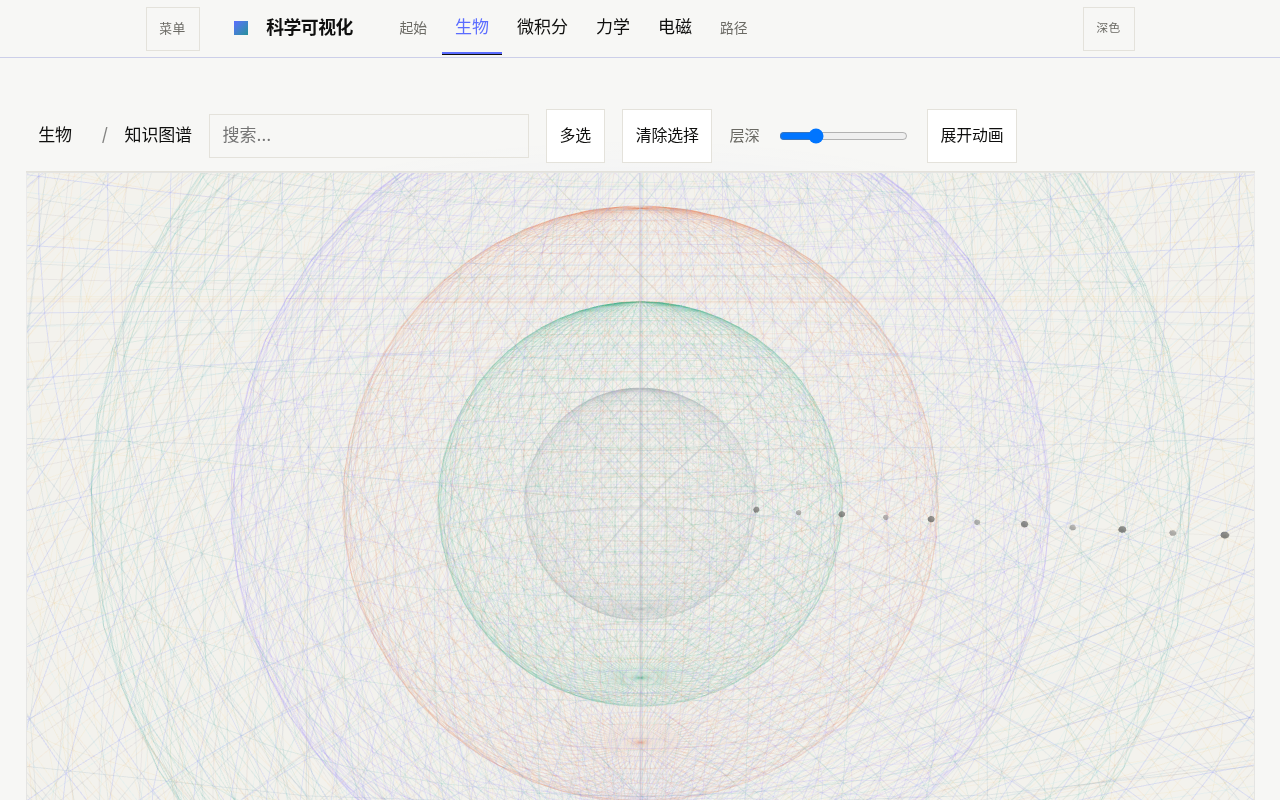
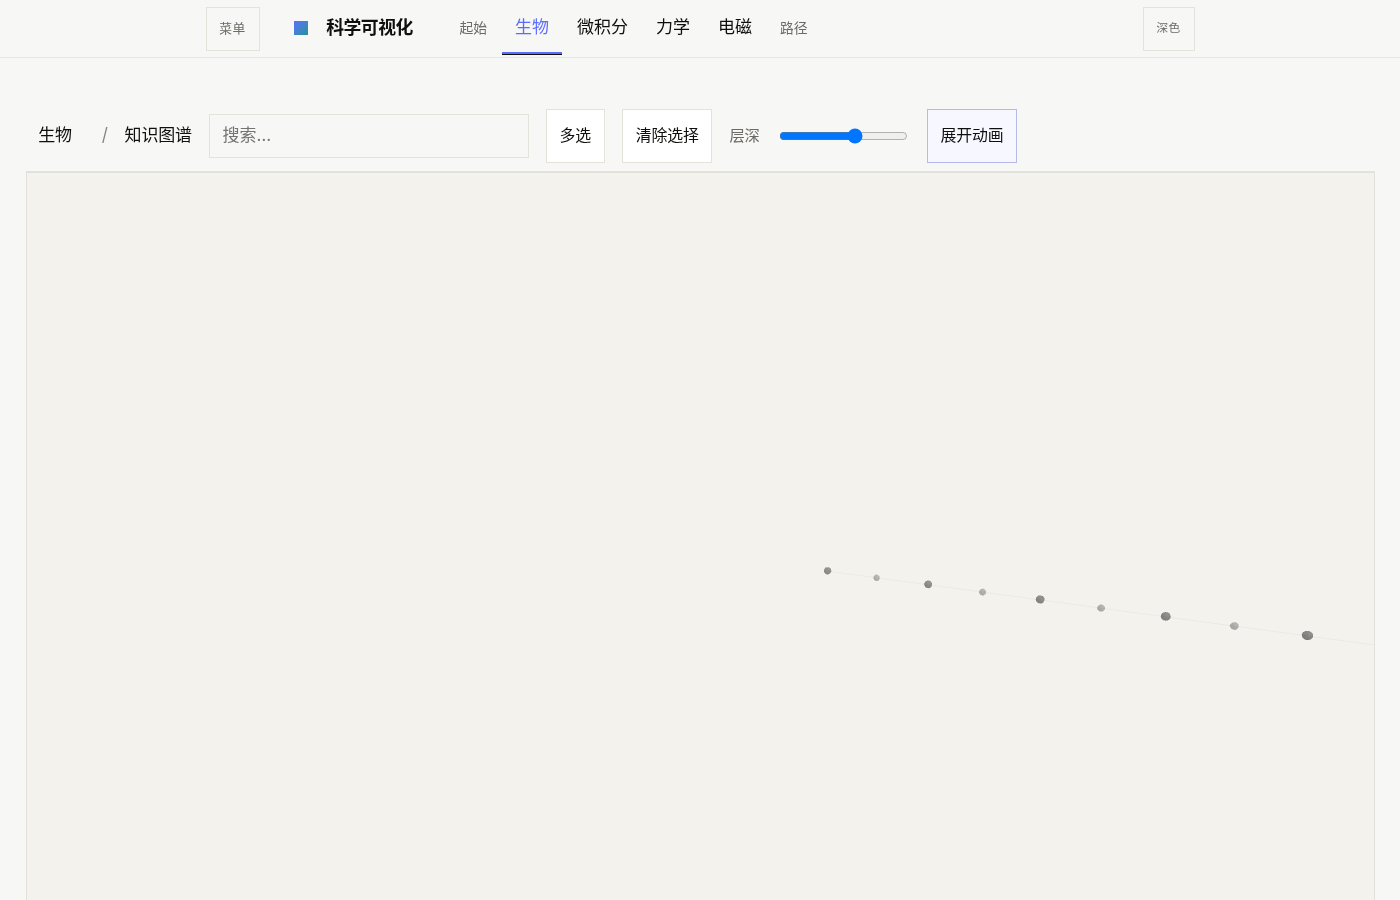
Maps: nodes+edges only (no shell rings); resync final screenshots
Synced from science-viz after removing concentric wireframe shells.

diff --git a/js/mindmap.js b/js/mindmap.js
@@ -253,25 +253,7 @@ export async function renderMindMap(main, subject) {
     mesh.userData.depth = n.depth;
   }
 
-  // Concentric shell wireframes
-  const shellGroup = new THREE.Group();
-  scene.add(shellGroup);
-  const shellMats = [];
-  for (let d = 0; d <= maxDepth; d++) {
-    const R = SHELL_R0 + d * SHELL_DR;
-    const sg = new THREE.SphereGeometry(R, 64, 32);
-    const sm = new THREE.MeshBasicMaterial({
-      color: d === 0 ? 0x9aa0a6 : UNIT_COLORS_AP[d % UNIT_COLORS_AP.length],
-      wireframe: true,
-      transparent: true,
-      opacity: 0.07,
-      depthWrite: false,
-    });
-    shellMats.push(sm);
-    const mesh = new THREE.Mesh(sg, sm);
-    mesh.userData.depth = d;
-    shellGroup.add(mesh);
-  }
+  // Shell radii used only for node layout (no drawn rings/wireframes)
 
   depthRange.max = String(maxDepth);
   depthRange.value = String(maxDepth);
@@ -283,10 +265,6 @@ export async function renderMindMap(main, subject) {
       m.visible = show;
       m.material.opacity = show ? (n.layer === 'prep' ? 0.75 : 0.95) : 0;
     }
-    shellGroup.children.forEach((c) => {
-      c.visible = c.userData.depth <= revealDepth;
-      c.material.opacity = c.userData.depth === revealDepth ? 0.14 : 0.06;
-    });
   }
   depthRange.addEventListener('input', () => {
     revealDepth = Number(depthRange.value);

diff --git a/css/main.css b/css/main.css
@@ -2409,13 +2409,11 @@ body { font-feature-settings: "ss01" on, "cv11" on; letter-spacing: -0.011em; }
 .tag-warn { color: var(--warn); border-color: color-mix(in srgb, var(--warn) 35%, var(--border)); }
 
 .map-shell {
-  background:
-    radial-gradient(ellipse 70% 50% at 50% 40%, var(--glow), transparent 70%),
-    var(--bg);
+  background: var(--bg);
 }
 .map-stage {
   border: 1px solid var(--hairline);
-  background: linear-gradient(180deg, color-mix(in srgb, var(--bg-elev) 88%, transparent), var(--bg));
+  background: var(--canvas-plot);
 }
 .map-canvas canvas {
   filter: contrast(1.02) saturate(1.05);

diff --git a/audit/REPORT.md b/audit/REPORT.md
@@ -75,3 +75,12 @@
 - `screenshots/final/`, `screenshots/redesign-final-r1/`
 - Source of truth: `/workspace/science-viz`
 - Delivery: `/workspace/science-viz-web`, `/workspace/science-viz-app` (no push)
+
+## Map visual correction (2026-11-05 Asia/Shanghai)
+
+- Removed all concentric shell wireframe spheres / rings from `js/mindmap.js`
+- Spherical layout retained via node positions only (basic inside → advanced outside)
+- Visible scene = node points + edge lines (+ small edge midpoint handles for interaction)
+- CSS map radial glow flattened to solid canvas background
+- Re-verified: edge handles, Shift multi-select, zero errors → `audit/map-only-qa.json`
+- Reshot: `screenshots/final/map-{bio,math,mech,em}.png`
